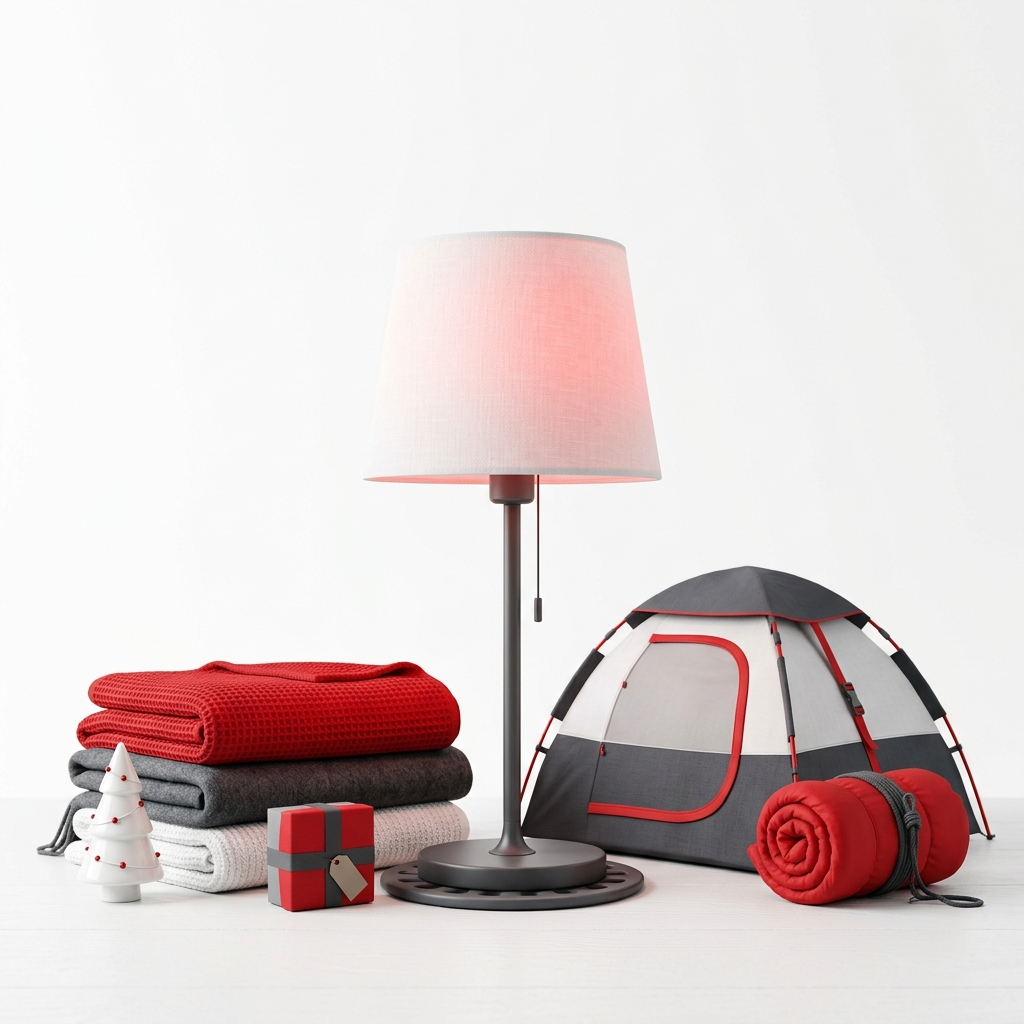
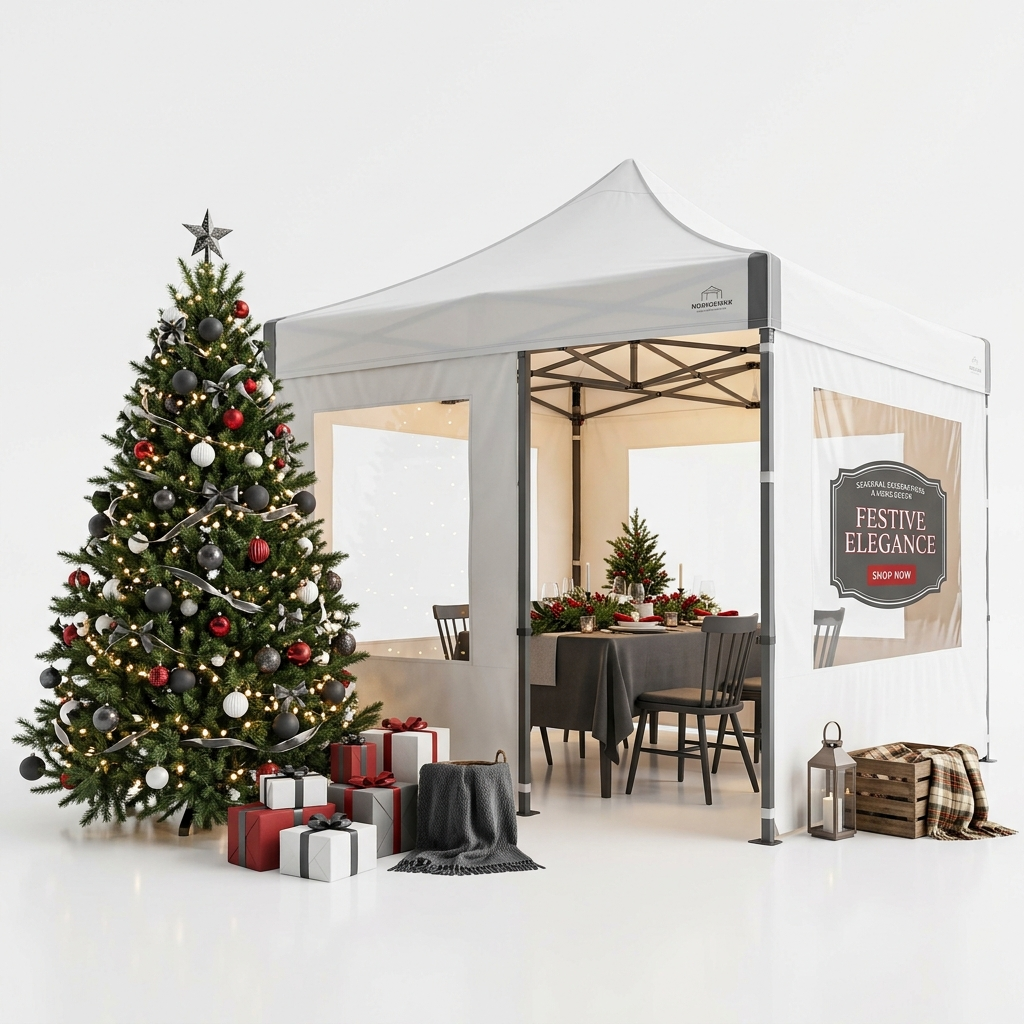
Mejoras visuales: nueva imagen, ajustes de texto y nuevo diseño de botón de tienda

diff --git a/index.html b/index.html
@@ -51,7 +51,7 @@
     <section class="social-section" id="comunidad">
         <div class="section-header">
             <h2>Únete a nuestra <span>Comunidad</span></h2>
-            <p>Síguenos en nuestras redes sociales y escanea nuestro código QR para acceder rápidamente a ofertas exclusivas.</p>
+            <p>Síguenos en nuestras redes sociales para no perderte las novedades y accede directamente a nuestro catálogo en línea.</p>
         </div>
 
         <div class="social-grid">
@@ -75,15 +75,16 @@
             </div>
 
             <!-- Store Link Card -->
-            <div class="qr-container">
-                <div class="glass-card qr-card" id="card-qr">
-                    <div class="qr-header" style="margin-bottom: 1rem;">
-                        <h3>Tienda Oficial</h3>
-                        <p>Visita nuestro catálogo en línea y descubre todos nuestros productos.</p>
+            <div style="display: flex; align-items: center; justify-content: center;">
+                <div class="glass-card" style="text-align: center; width: 100%; max-width: 450px; padding: 3rem 2rem; border-top: 5px solid var(--accent-primary);">
+                    <div style="margin-bottom: 2rem;">
+                        <i class="fa-solid fa-store" style="font-size: 3.5rem; color: var(--accent-primary); margin-bottom: 1rem;"></i>
+                        <h3 style="font-size: 1.8rem; margin-bottom: 0.5rem; font-weight: 800; color: var(--text-main);">Tienda Oficial</h3>
+                        <p style="font-size: 1.05rem;">Visita nuestro catálogo en línea y descubre nuestros productos para el hogar, novedades de temporada y carpas.</p>
                     </div>
-                    <div style="padding: 1.5rem 0;">
-                        <a href="https://plazaguzman.com/" target="_blank" class="btn-primary pulse" style="font-size: 1.2rem; display: block; text-align: center; width: 100%;">
-                            <i class="fa-solid fa-cart-shopping" style="margin-right: 10px;"></i> Ir al Catálogo
+                    <div>
+                        <a href="https://plazaguzman.com/" target="_blank" class="btn-primary pulse" style="font-size: 1.25rem; padding: 1.2rem; display: flex; align-items: center; justify-content: center; width: 100%; border-radius: 16px; font-weight: 700; text-transform: uppercase; letter-spacing: 1px;">
+                            <i class="fa-solid fa-cart-shopping" style="margin-right: 12px; font-size: 1.4rem;"></i> Entrar al Catálogo
                         </a>
                     </div>
                 </div>